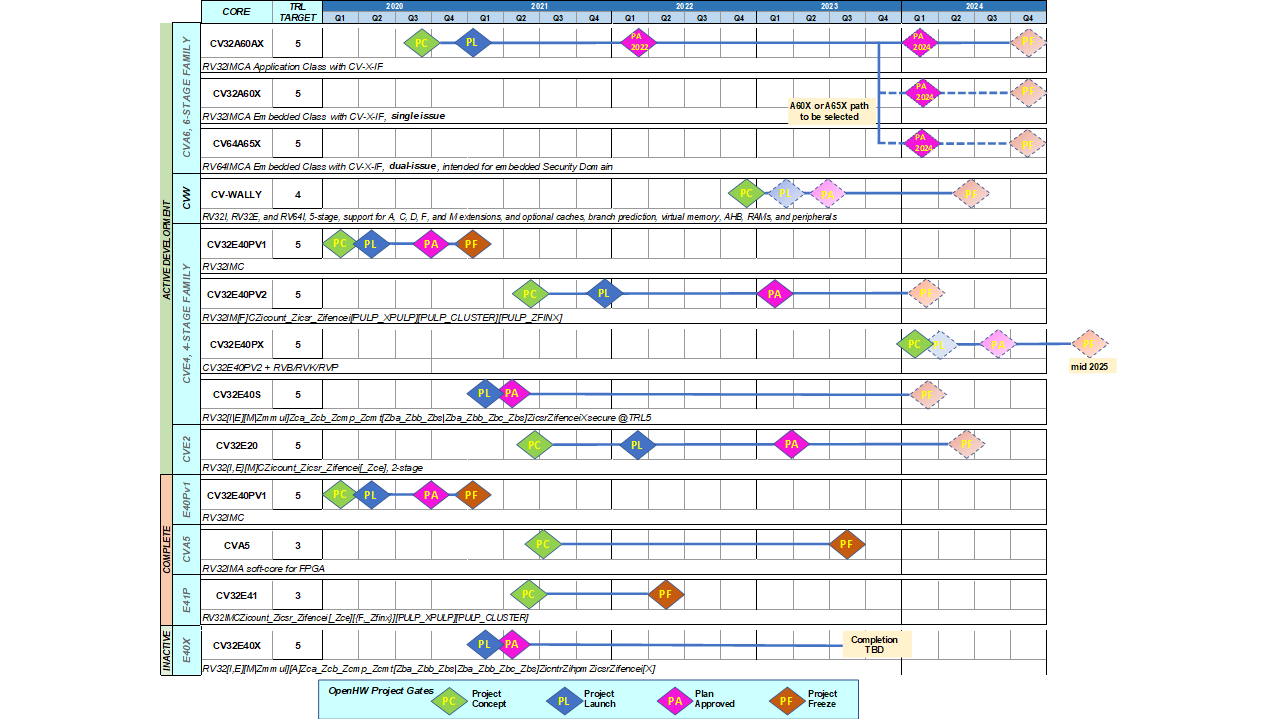
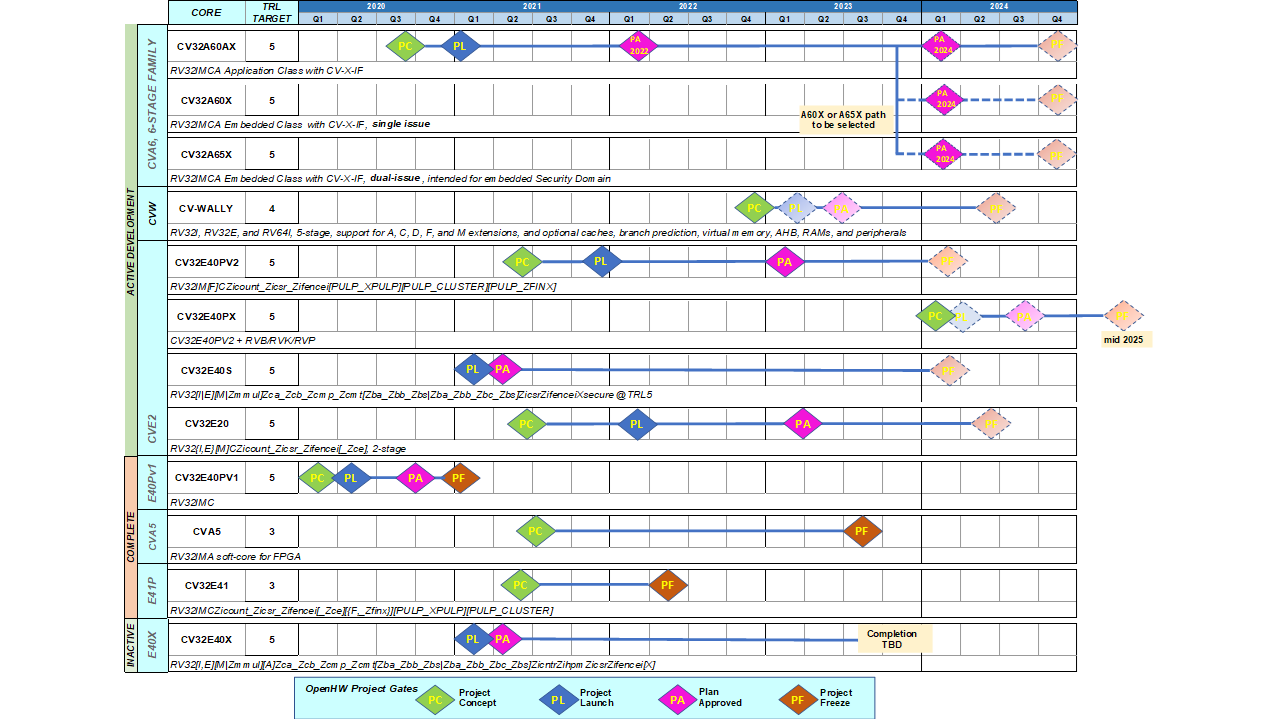
Several more mods applied to timeline after feedback from JR.Coulon and P.Gouedo

Changed region(s): [[0.0938, 0.0, 0.9062, 1.0]]

diff --git a/README.md b/README.md
@@ -6,7 +6,7 @@ CORE-V is a family of permissively licensed, open-source RISC-V cores curated by
 
 <!-- <img src="https://github.com/openhwgroup/core-v-cores/blob/master/CV-CORES-Roadmap_2023-04-09.png" align="center" /> -->
 
-<img src="https://github.com/openhwgroup/core-v-cores/blob/master/OpenHW-CoresTimeline-Feb2024.png" align="center"           
+<img src="https://github.com/openhwgroup/core-v-cores/blob/master/OpenHW-CoresTimeline-Feb2024.png" align="center" />          
 
 # CORE-V CVA6 Family, 6-Stage Cores configurable as Embedded or Application Class
 
